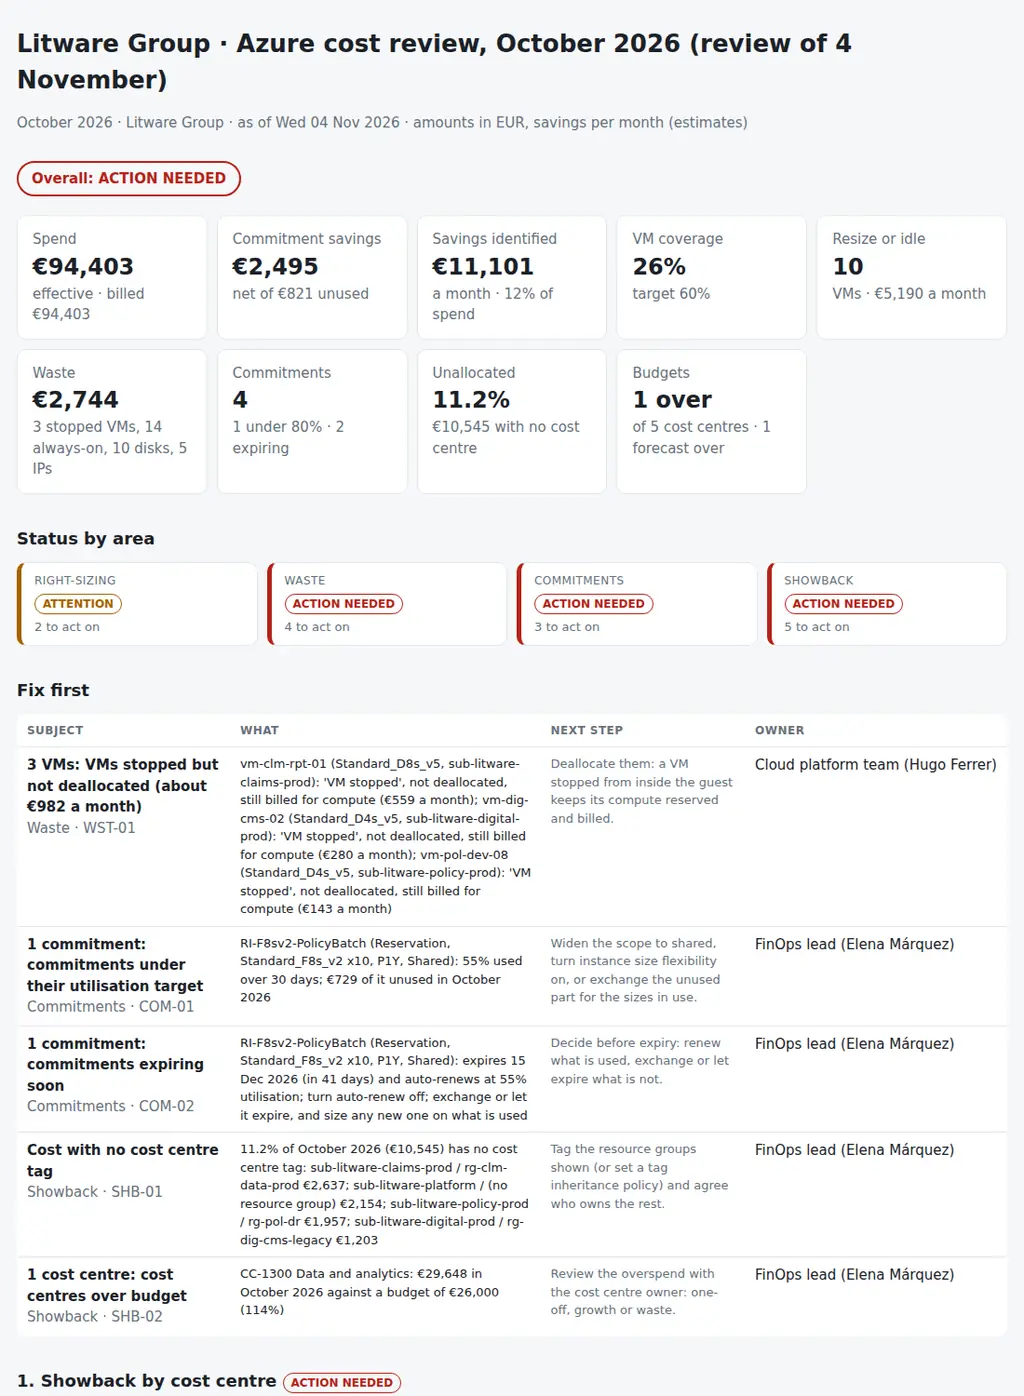
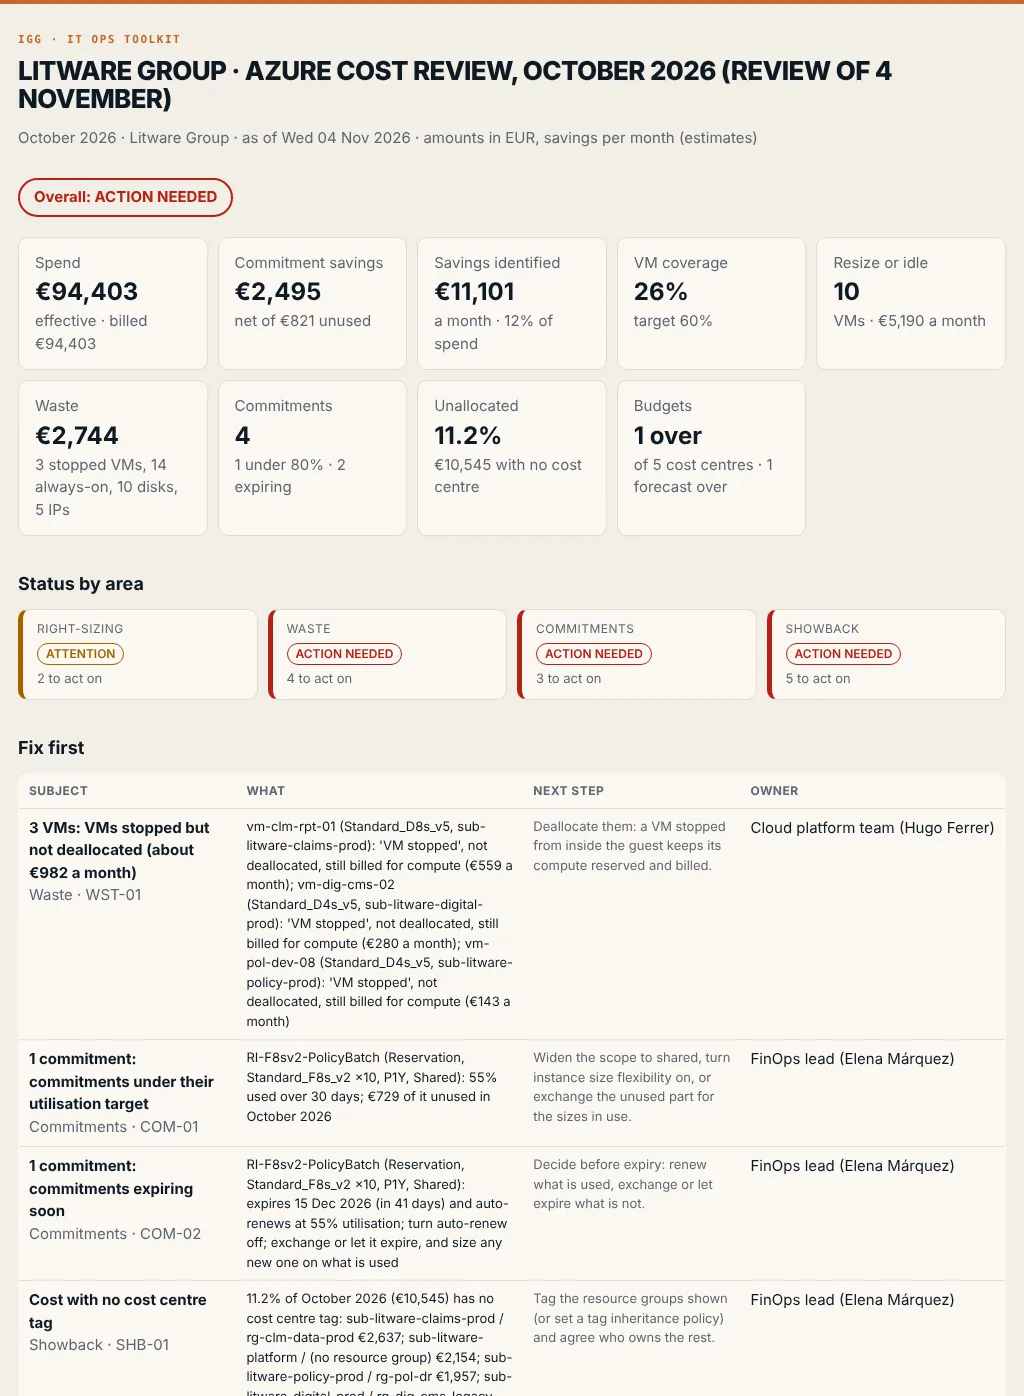
Report: IGG colours (paper, ink and the orange accent) and a new screenshot

diff --git a/azcostreview/report.py b/azcostreview/report.py
@@ -236,9 +236,9 @@ def pack_md(d: Data, rv: dict, findings: list[Finding], title: str) -> str:
 # ---------------------------------------------------------------- html
 
 CSS = """
-:root{--bg:#f6f7f8;--card:#fff;--ink:#1b2128;--muted:#66717c;--line:#e2e5e9;--ok:#1e7a4c;--warn:#a46200;--bad:#b42318;--info:#0b6bcb;--bar:#3d6fb6;--bar2:#c9d6ea}
-@media (prefers-color-scheme:dark){:root{--bg:#13171b;--card:#1b2127;--ink:#e7eaee;--muted:#9aa5b0;--line:#2b333b;--ok:#4cc38a;--warn:#f0a83a;--bad:#f2685c;--info:#5aa9f0;--bar:#6f9be0;--bar2:#2e3d55}}
-*{box-sizing:border-box}body{margin:0;background:var(--bg);color:var(--ink);font:15px/1.5 system-ui,-apple-system,Segoe UI,sans-serif}
+:root{--bg:#f2eee6;--card:#fbf8f3;--ink:#0e1a24;--muted:#5d6670;--line:#e2dccf;--ok:#1e7a4c;--warn:#a46200;--bad:#b42318;--info:#1f5f8b;--bar:#3d6fb6;--bar2:#c9d6ea}
+@media (prefers-color-scheme:dark){:root{--bg:#0e1a24;--card:#142331;--ink:#f2eee6;--muted:#a9b3bb;--line:#24364a;--ok:#4cc38a;--warn:#f0a83a;--bad:#f2685c;--info:#5aa9f0;--bar:#6f9be0;--bar2:#2e3d55}}
+*{box-sizing:border-box}body{border-top:4px solid #c4672b}h1{font-weight:800;letter-spacing:-.025em;text-transform:uppercase;line-height:1.05}h1::before{content:"IGG · IT Ops toolkit";display:block;font:600 11px/1.4 ui-monospace,SFMono-Regular,Menlo,monospace;letter-spacing:.14em;text-transform:uppercase;color:#c4672b;margin-bottom:10px}body{margin:0;background:var(--bg);color:var(--ink);font:15px/1.5 system-ui,-apple-system,Segoe UI,sans-serif}
 main{max-width:1100px;margin:0 auto;padding:28px 18px 60px}h1{font-size:26px;margin:0 0 4px}h2{font-size:18px;margin:34px 0 12px}h3{font-size:15px;margin:18px 0 8px}
 .muted{color:var(--muted)}.tiles{display:grid;grid-template-columns:repeat(auto-fit,minmax(170px,1fr));gap:10px;margin-top:20px}
 .tile{background:var(--card);border:1px solid var(--line);border-radius:10px;padding:14px 16px}.tile b{display:block;font-size:24px}
